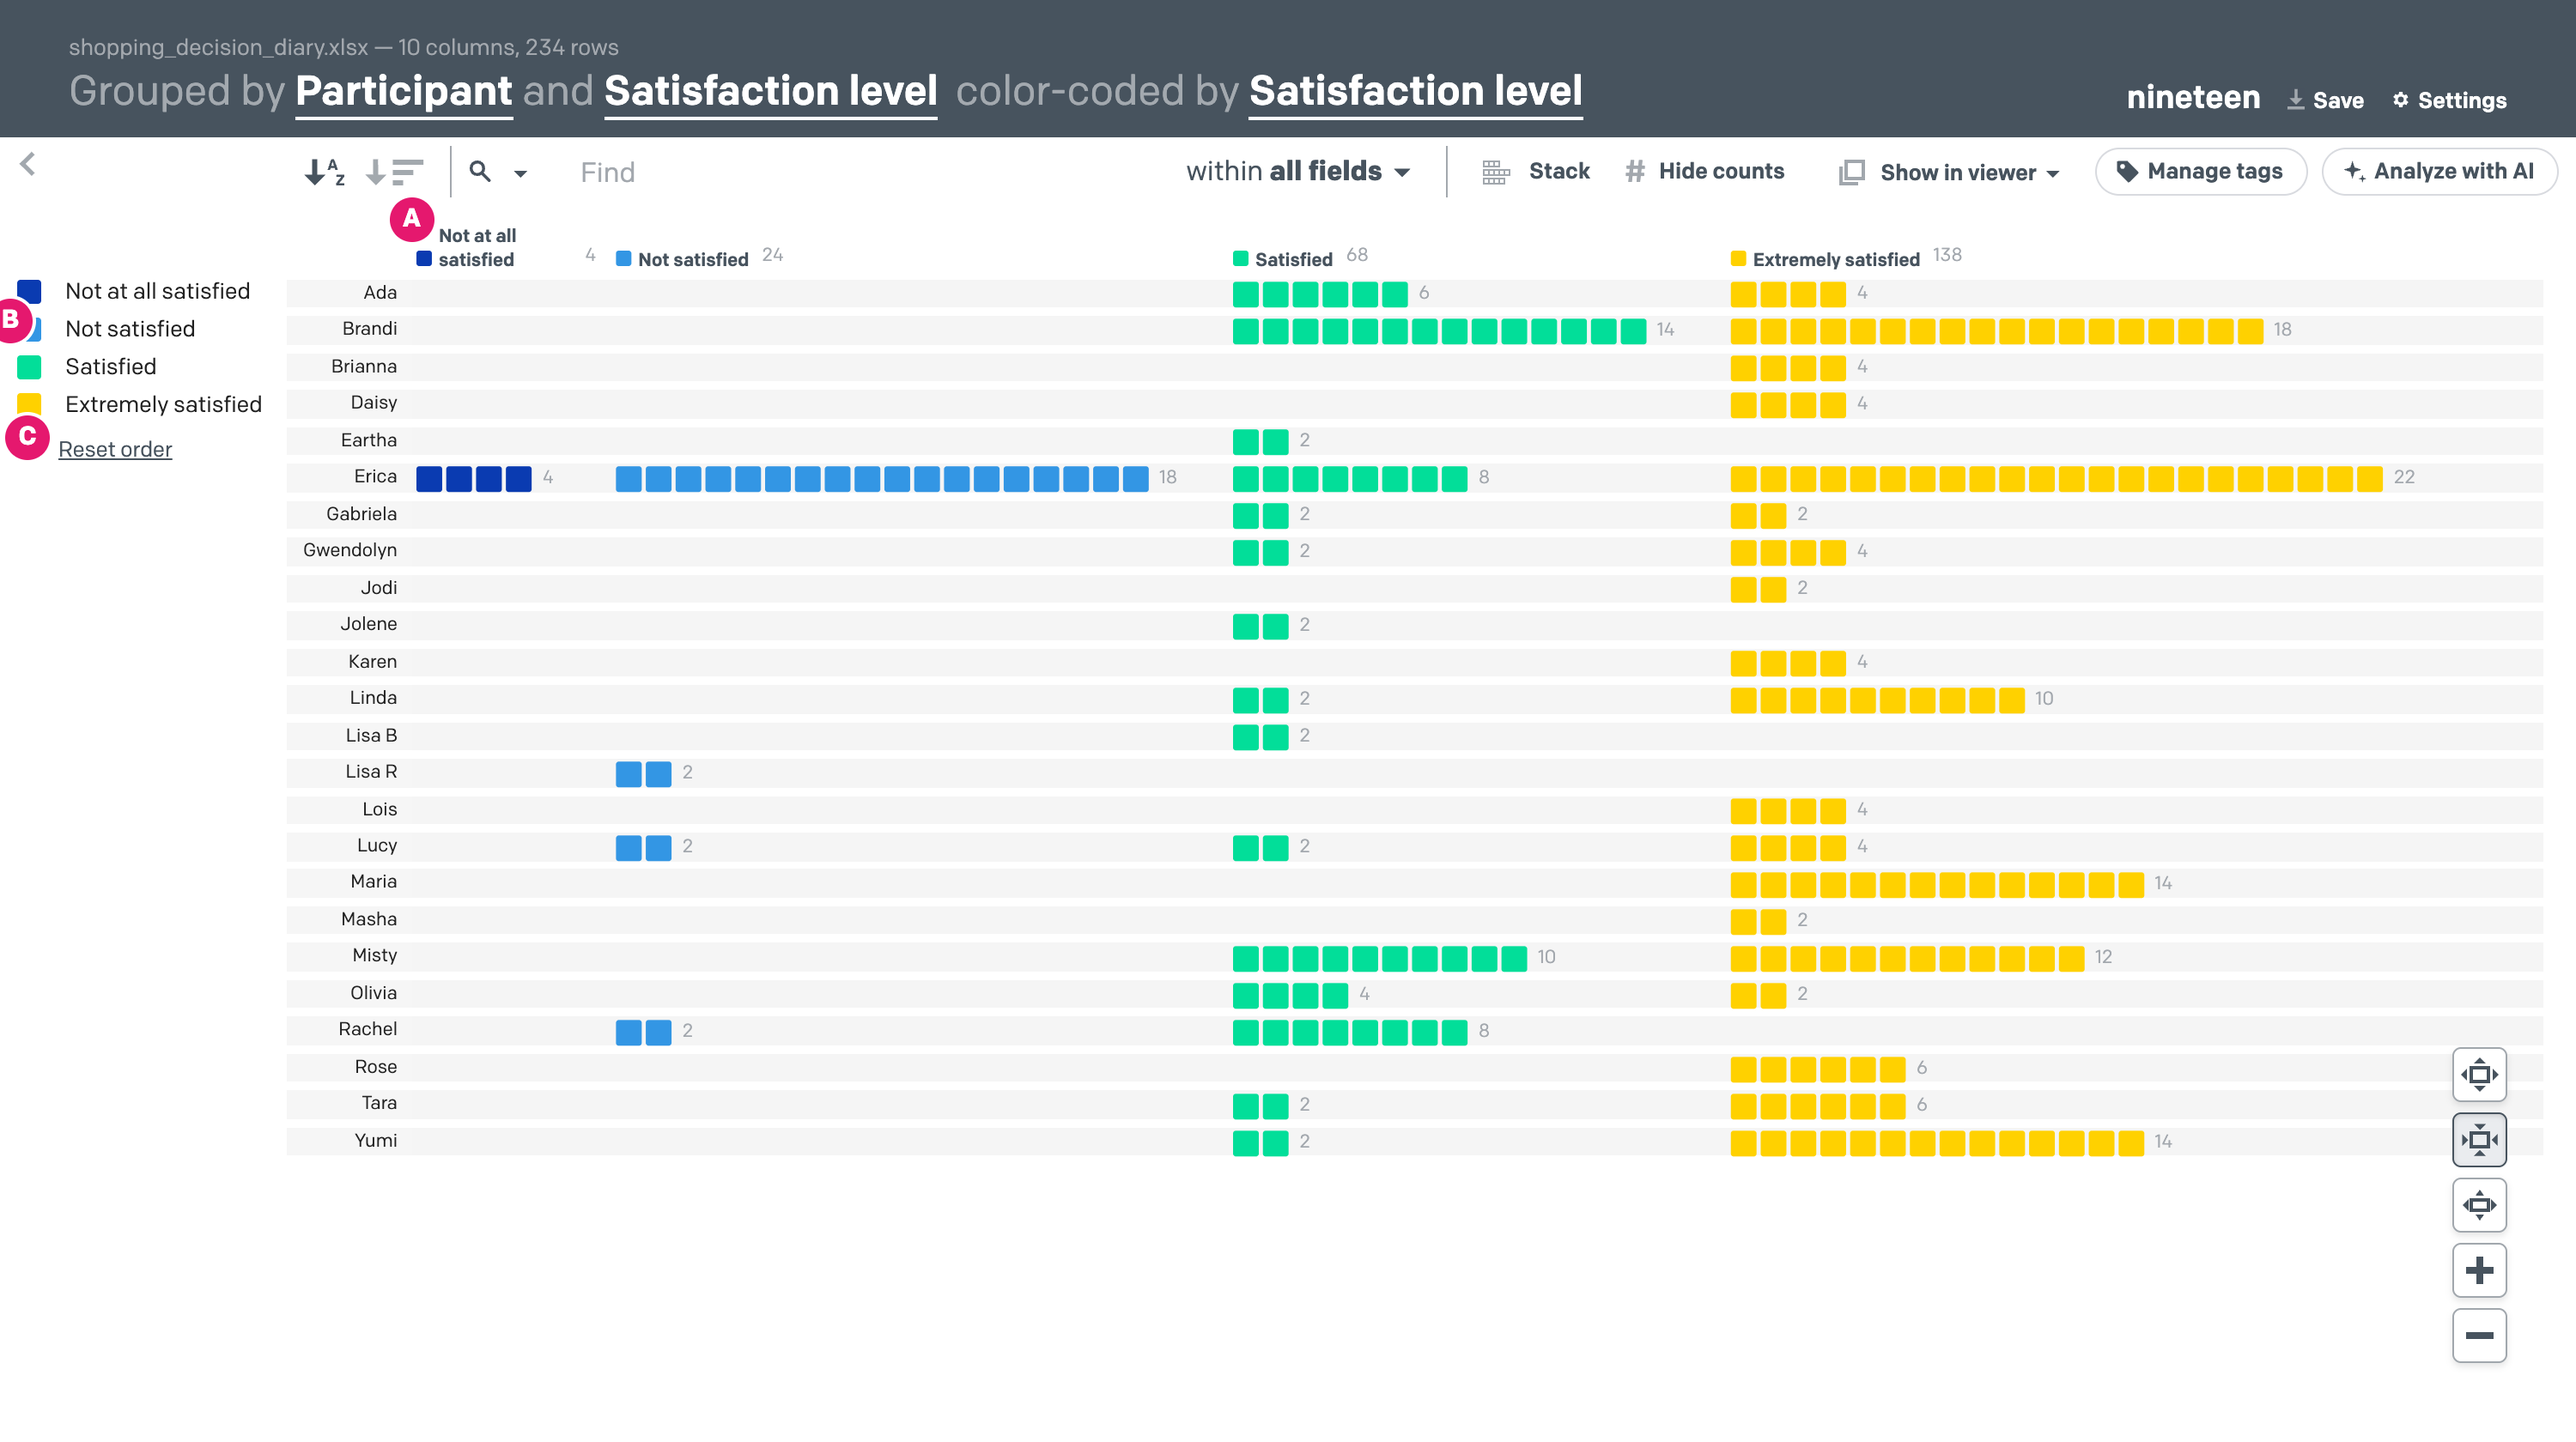
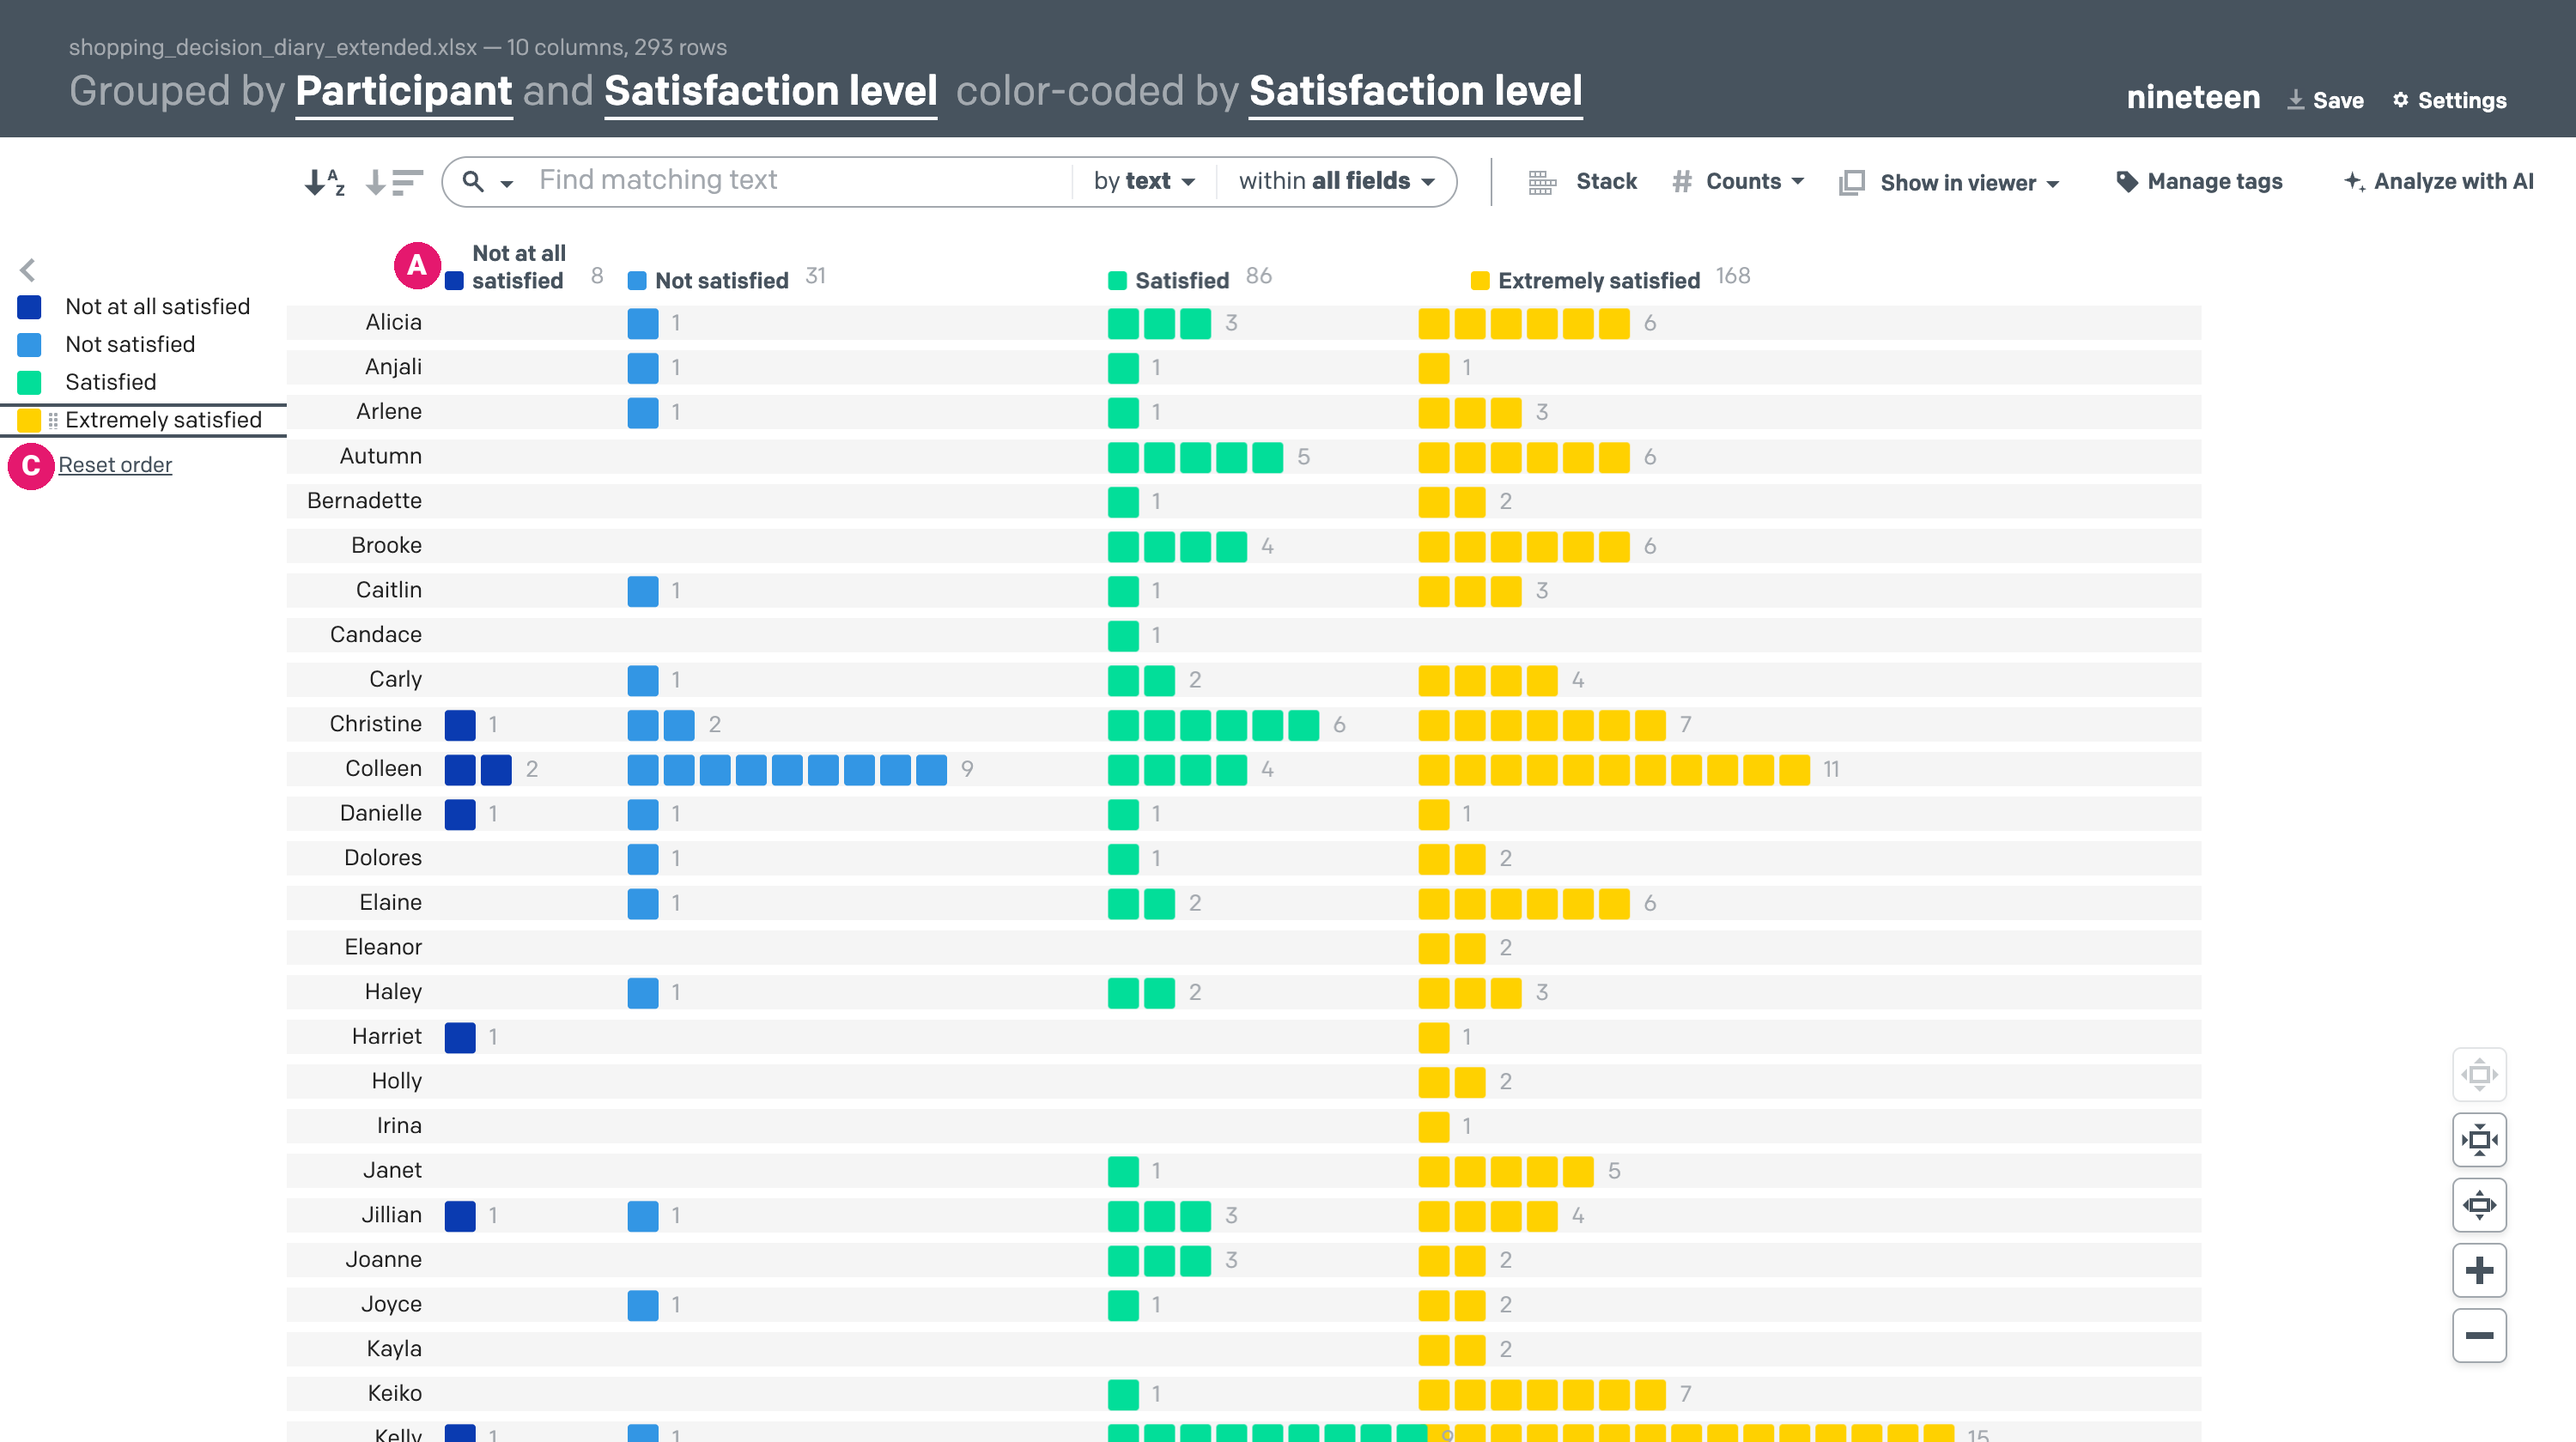
README screenshots retaken with the current app and example data
All README screenshots and the What's new images for 2.1 are captured
again from the built app at 2x: the boxed find group with its "by text"
button (callout 17, now named in the text), Settings with Classic
Nineteen first and the Find by meaning section, Manage tags with
descriptions, New tag and the tag list controls, the counts menu, and
the extended example (293 rows). The meaning and tag list images are
no longer low-resolution pane captures.

Assisted-by: Claude

diff --git a/dist/readme.html b/dist/readme.html
@@ -87,7 +87,8 @@ is each row&#39;s share of all data items. Column totals stay as counts, so the 
 <li>The drop-down (10) in the search bar lists the most frequent words. Click one to search for it, or shift-click to add it with AND</li>
 </ul>
 </li>
-<li><strong>Find by meaning:</strong> The &quot;by text&quot; button next to the search box switches the search to <strong>by meaning</strong>. Then a search like
+<li><strong>Find by meaning:</strong> The &quot;by text&quot; button (17) next to the search box opens the <strong>Find by</strong> menu; choose <strong>Meaning similarity</strong>
+and the search works <strong>by meaning</strong>. Then a search like
 <em>worried about the price</em> finds the data items with a sentence that means something similar, in whatever words they use
 (&quot;the cost was more than I&#39;d planned on&quot;), plus any that contain the exact phrase as whole words. The viewer says why each one
 matched: its rank (&quot;#3 closest in meaning&quot;) and the sentence it matched by, which is highlighted, or &quot;Contains&quot; for a phrase hit:<ul>

diff --git a/dist/whats-new.html b/dist/whats-new.html
@@ -245,7 +245,7 @@
           </li>
         </ul>
         <figure>
-          <img src="docs/screenshots/whats-new/meaning.png" alt="Finding by meaning: the search “worried about the price” with its closest data items in color, and a viewer showing the sentence one of them matched by" loading="lazy" />
+          <img src="docs/screenshots/whats-new/meaning.png" width="760" alt="Finding by meaning: the search “worried about the price” with its closest data items in color, and a viewer showing the sentence one of them matched by" loading="lazy" />
           <figcaption>Finding by meaning: the closest data items stay in color, and the viewer shows the sentence each one matched by.</figcaption>
         </figure>
         <p class="classic-note">Finding by meaning can be hidden with <a href="#classic">Classic Nineteen</a> in Settings. Saved HTML files have the text search only.</p>

diff --git a/docs/whats-new.html b/docs/whats-new.html
@@ -245,7 +245,7 @@
           </li>
         </ul>
         <figure>
-          <img src="screenshots/whats-new/meaning.png" alt="Finding by meaning: the search “worried about the price” with its closest data items in color, and a viewer showing the sentence one of them matched by" loading="lazy" />
+          <img src="screenshots/whats-new/meaning.png" width="760" alt="Finding by meaning: the search “worried about the price” with its closest data items in color, and a viewer showing the sentence one of them matched by" loading="lazy" />
           <figcaption>Finding by meaning: the closest data items stay in color, and the viewer shows the sentence each one matched by.</figcaption>
         </figure>
         <p class="classic-note">Finding by meaning can be hidden with <a href="#classic">Classic Nineteen</a> in Settings. Saved HTML files have the text search only.</p>

diff --git a/README.md b/README.md
@@ -61,7 +61,8 @@ Nineteen never changes your data, so feel free to explore the interface. Additio
 		- Searching for *dog AND food* ('AND' must be capitalized) finds only items containing both "dog" and "food", though not necessarily together
 		- An asterisk matches any single character: *re\*d* matches both "read" and "reed"
 	- The drop-down (10) in the search bar lists the most frequent words. Click one to search for it, or shift-click to add it with AND
-- **Find by meaning:** The "by text" button next to the search box switches the search to **by meaning**. Then a search like
+- **Find by meaning:** The "by text" button (17) next to the search box opens the **Find by** menu; choose **Meaning similarity**
+  and the search works **by meaning**. Then a search like
   *worried about the price* finds the data items with a sentence that means something similar, in whatever words they use
   ("the cost was more than I'd planned on"), plus any that contain the exact phrase as whole words. The viewer says why each one
   matched: its rank ("#3 closest in meaning") and the sentence it matched by, which is highlighted, or "Contains" for a phrase hit:
